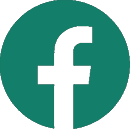
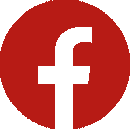
Add files via upload

diff --git a/pwa3.css b/pwa3.css
@@ -3,7 +3,7 @@
 *{
 	margin:0;
 	padding:0;
-	font-family:'Poppins',sans-serif;
+	font-family:'Roboto',sans-serif;
 }
 
  .container{
@@ -19,7 +19,7 @@
  	right:0;
  	width: 350px;
  	height:100%;
- 	background: radial-gradient(circle at 32% 12%, rgba(229, 229, 229,0.05) 0%, rgba(229, 229, 229,0.05) 50%,rgba(101, 101, 101,0.05) 50%, rgba(101, 101, 101,0.05) 100%),radial-gradient(circle at 49% 59%, rgba(113, 113, 113,0.05) 0%, rgba(113, 113, 113,0.05) 50%,rgba(240, 240, 240,0.05) 50%, rgba(240, 240, 240,0.05) 100%),radial-gradient(circle at 16% 86%, rgba(118, 118, 118,0.05) 0%, rgba(118, 118, 118,0.05) 50%,rgba(207, 207, 207,0.05) 50%, rgba(207, 207, 207,0.05) 100%),linear-gradient(252deg, rgb(34, 85, 150),rgb(117, 220, 202));
+ 	background: radial-gradient(circle at 90% 66%, rgba(25, 25, 25,0.06) 0%, rgba(25, 25, 25,0.06) 25%,rgba(23, 23, 23,0.06) 25%, rgba(23, 23, 23,0.06) 50%,rgba(20, 20, 20,0.06) 50%, rgba(20, 20, 20,0.06) 75%,rgba(18, 18, 18,0.06) 75%, rgba(18, 18, 18,0.06) 100%),radial-gradient(circle at 62% 23%, rgba(154, 154, 154,0.06) 0%, rgba(154, 154, 154,0.06) 25%,rgba(111, 111, 111,0.06) 25%, rgba(111, 111, 111,0.06) 50%,rgba(68, 68, 68,0.06) 50%, rgba(68, 68, 68,0.06) 75%,rgba(25, 25, 25,0.06) 75%, rgba(25, 25, 25,0.06) 100%),radial-gradient(circle at 47% 85%, rgba(97, 97, 97,0.06) 0%, rgba(97, 97, 97,0.06) 25%,rgba(130, 130, 130,0.06) 25%, rgba(130, 130, 130,0.06) 50%,rgba(162, 162, 162,0.06) 50%, rgba(162, 162, 162,0.06) 75%,rgba(195, 195, 195,0.06) 75%, rgba(195, 195, 195,0.06) 100%),radial-gradient(circle at 72% 0%, rgba(214, 214, 214,0.06) 0%, rgba(214, 214, 214,0.06) 25%,rgba(223, 223, 223,0.06) 25%, rgba(223, 223, 223,0.06) 50%,rgba(231, 231, 231,0.06) 50%, rgba(231, 231, 231,0.06) 75%,rgba(240, 240, 240,0.06) 75%, rgba(240, 240, 240,0.06) 100%),linear-gradient(90deg, rgb(181, 12, 26),rgb(206, 132, 31));
  	z-index: -2;
  }
 
@@ -87,7 +87,7 @@ header ul li a:before{
 	left:0;
 	width:0%;
 	height:100%;
-	background:#137E69;
+	background:#b71b15;
 	opacity: 100%;
 	z-index: -1;
 	transition: 0.5s ease-in-out;
@@ -274,7 +274,7 @@ header ul li a.active:before{
 }
 
 .dropbtn {
-	background-color: #137E69;
+	background-color: #b71b15;
 	color: white;
 	padding: 10px;
 	font-size: 16px;
@@ -364,7 +364,7 @@ header ul li a.active:before{
 
 	
 .dropbtn {
-	background-color: #137E69;
+	background-color: #b71b15;
 	color: white;
 	padding: 16px;
 	font-size: 16px;
@@ -397,14 +397,14 @@ header ul li a.active:before{
 	display: block;
   }
   
-  .dropdown-content a:hover {background-color:#137E69}
+  .dropdown-content a:hover {background-color:#b71b15}
   
   .dropdown:hover .dropdown-content {
 	display: block;
   }
   
   .dropdown:hover .dropbtn {
-	background-color: #137E69;
+	background-color: #b71b15;
   }
   
 	.menuIcon{
